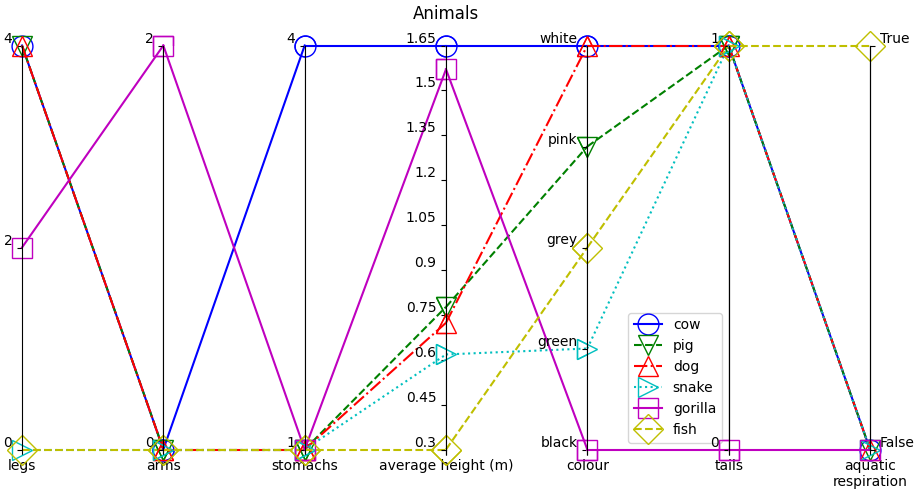
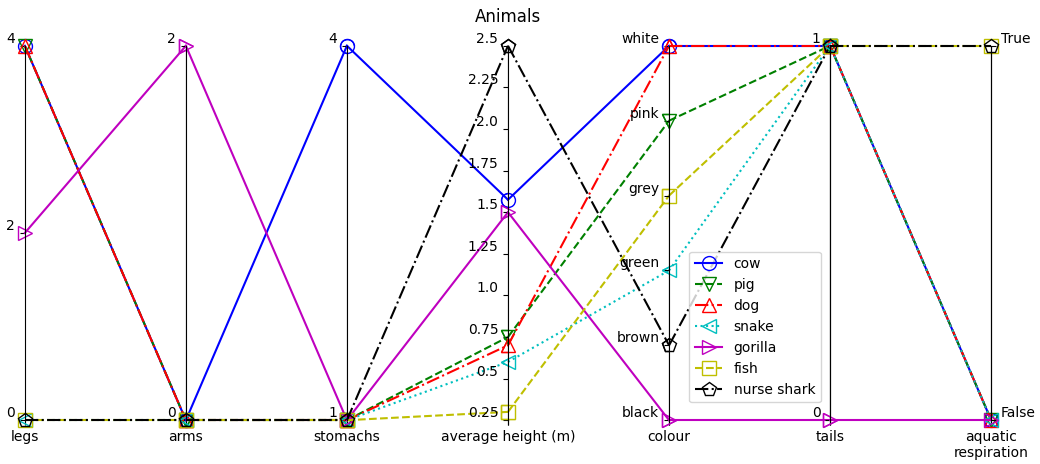
fixed float mapping to include min-max range of yticklabels. added demo case to show that it works

diff --git a/src/parallel_coordinate_plot/data_mapping.py b/src/parallel_coordinate_plot/data_mapping.py
@@ -122,9 +122,15 @@ class FloatMap(BaseMap[float]):
     def __init__(self, data: list[float]) -> None:
         self.__min_val, self.__max_val = self._normalize_range(data)
         mapping = {value: (value - self.__min_val) / (self.__max_val - self.__min_val) for value in data}
-        
+        # initialize the base class with currently known min-max range
         super().__init__(data, mapping)
 
+        # reinitialize base class to update mapping and mapped_data with final
+        # min-max range after considering yticklabels
+        self.__min_val = min(self.__min_val, min(self.yticklabels))
+        self.__max_val = max(self.__max_val, max(self.yticklabels))
+        super().__init__(data, mapping)
+    
     @staticmethod
     def _normalize_range(data: list[float]) -> tuple[float, float, float]:
         return _normalize_range(data)

diff --git a/examples/demo.py b/examples/demo.py
@@ -12,13 +12,15 @@ def main():
         "snake": [0, 0, 1, 0.6, "green", 1, False],
         "gorilla": [2, 2, 1, 1.5, "black", 0, False],
         "fish": [0, 0, 1, 0.3, "grey", 1, True],
+        "nurse shark": [0, 0, 1, 2.5, "brown", 1, True]
     }
 
     parallel_coordinate_plot.plot(
         headers,
         content,
         legend=True,
-        title='Animals'
+        title='Animals',
+        markersize=10
     )
 
     plt.show()
